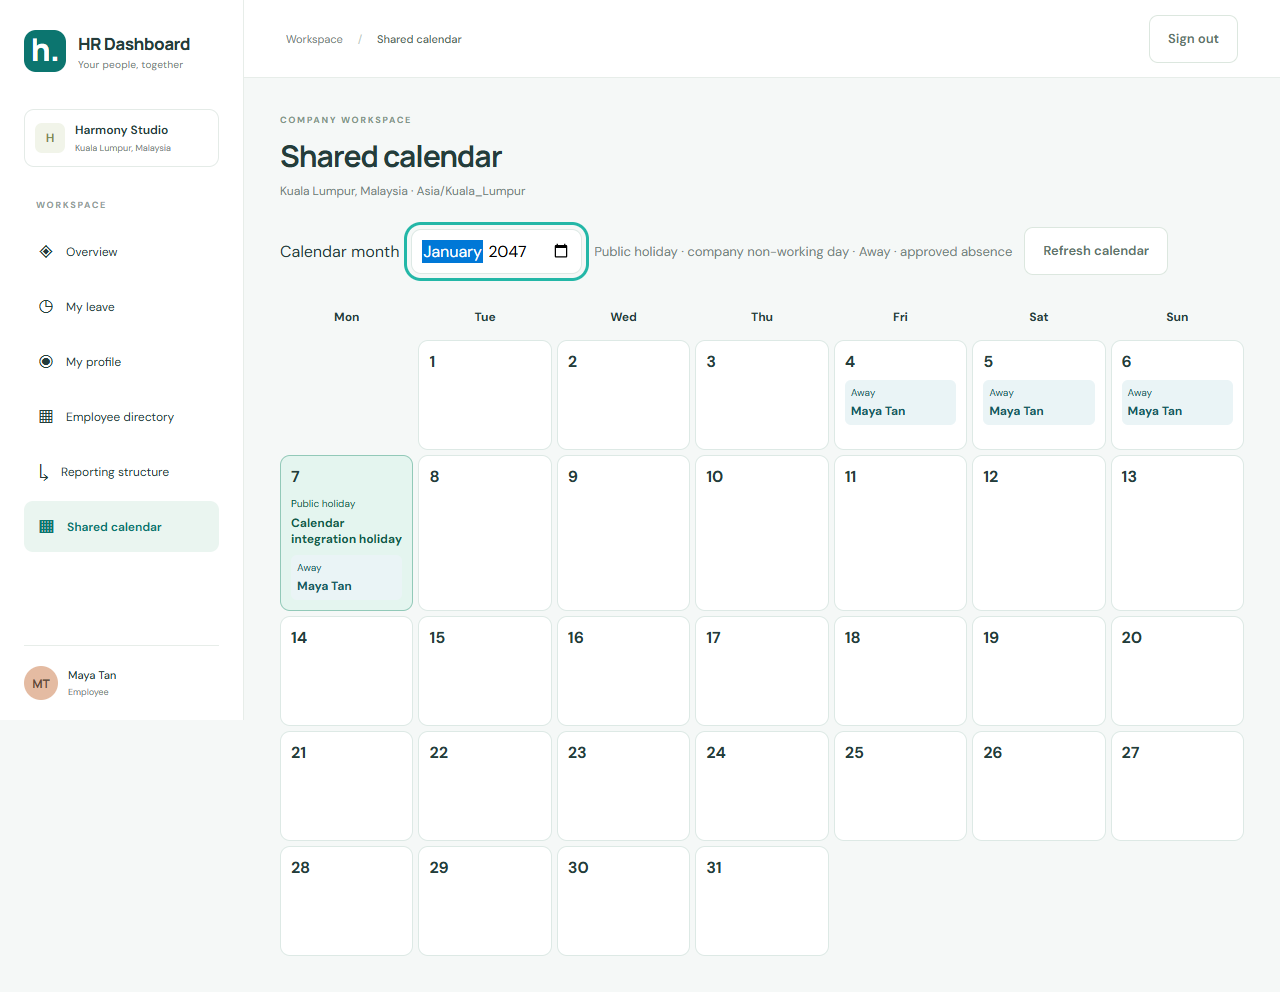
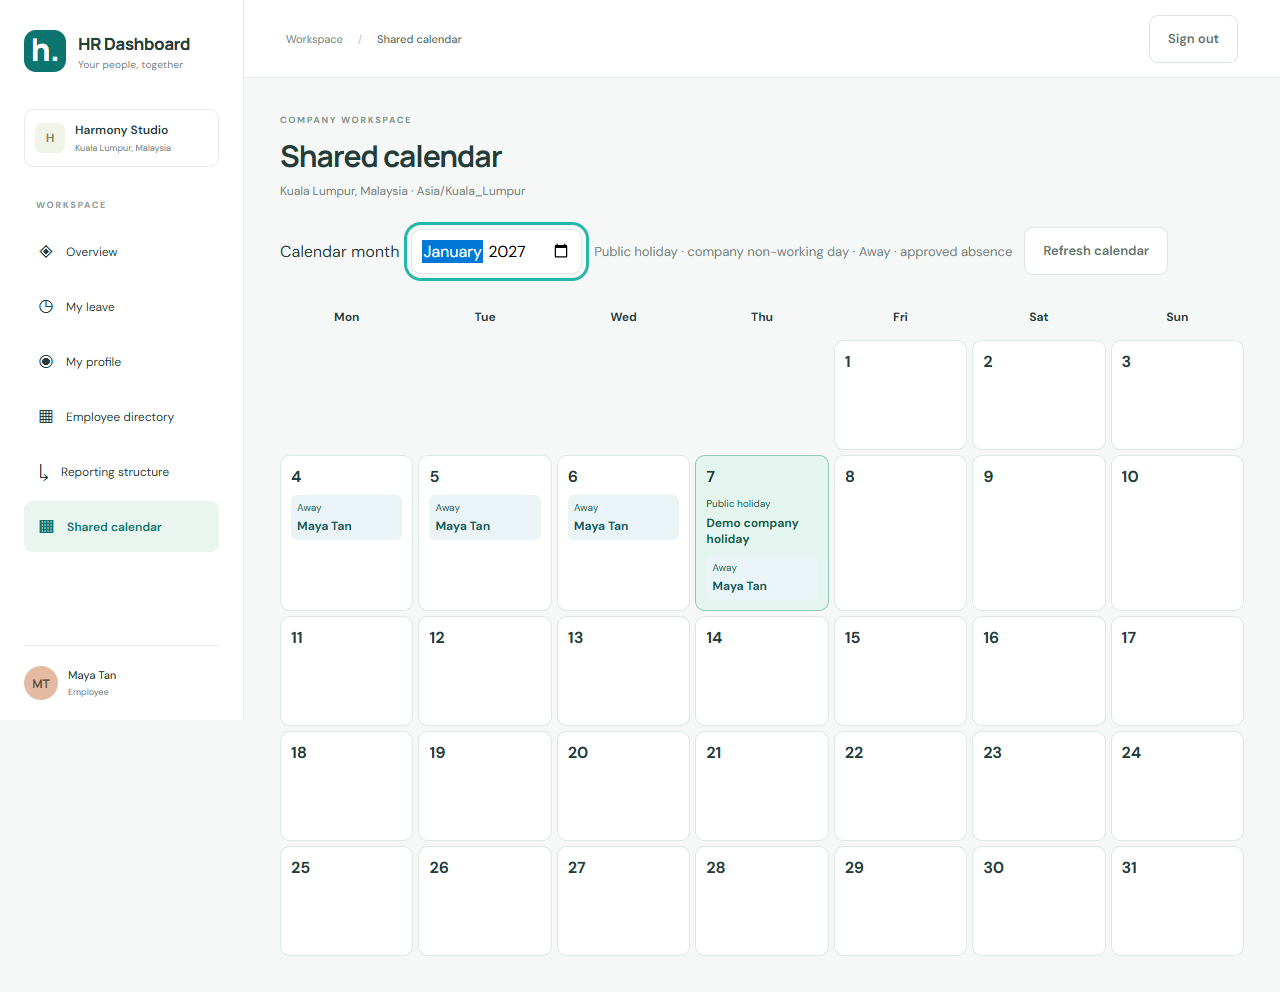
Use realistic demo dates in README screenshots

diff --git a/README.md b/README.md
@@ -16,13 +16,13 @@ HR can see active headcount and company-wide leave totals, with their own reques
 
 ### Shared calendar
 
-Employees can see company holidays and approved absences marked **Away**, without private leave reasons or types.
+Employees can see company holidays and approved absences marked **Away**, without private leave reasons or types. This example shows January 2027.
 
 [![Shared monthly calendar showing a fictional company holiday and Maya Tan's approved absences](docs/screenshots/shared-calendar.png)](docs/screenshots/shared-calendar.png)
 
 ### Leave approvals and history
 
-Managers and HR review eligible requests. The retained history shows who submitted, approved, or cancelled a request.
+Managers and HR review eligible requests. The retained history shows who submitted, approved, or cancelled a request. This example follows a request for 6 January 2027.
 
 [![Leave approval page showing a cancelled request with its submitted, approved, and cancelled audit history](docs/screenshots/leave-history.png)](docs/screenshots/leave-history.png)
 
